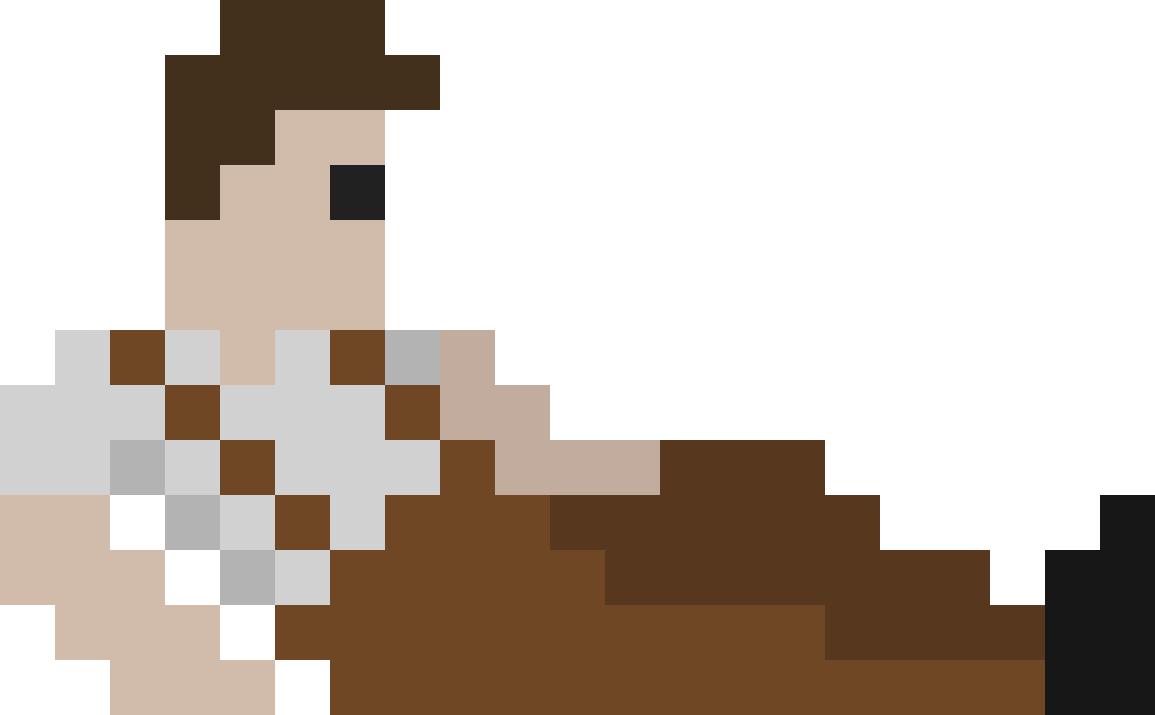
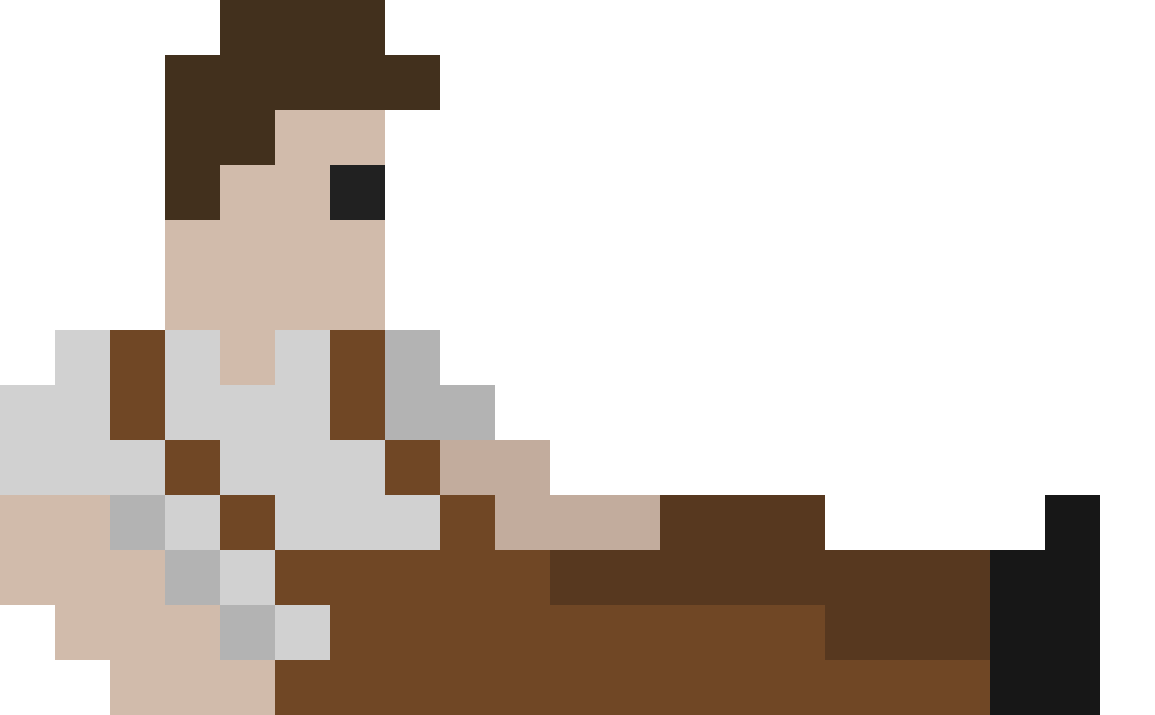
added sliding logic

Changed region(s): [[0.0935, 0.4615, 0.7792, 1.0], [0.9039, 0.6769, 1.0, 1.0], [0.8416, 0.7692, 0.9039, 1.0]]

diff --git a/javascript/games/game2.js b/javascript/games/game2.js
@@ -16,7 +16,7 @@ let floor_lisbon;
 
 /** character variables */
 let charX, charY, charW, charH, charYDefault, charYBackToDefault;
-let charSlidingH, charSlidingY;
+let charSlidingW, charSlidingH, charSlidingY;
 let char_running_R, char_running_M, char_running_L;
 let char_sliding_1, char_sliding_2, char_sliding_3;
 let char_jumping_1, char_jumping_2, char_jumping_3, char_jumping_4, char_jumping_5;
@@ -41,7 +41,8 @@ let typeOfObstacle = 1;
 let startJumpCounter, endJumpCounter, howLongJump, jump = false, isHovering = false, isHoveringStart, isHoveringShouldEndShort = 15, isHoveringShouldEndLong = 35, isJumpingDown = false;
 let slide = false, startSlide, endSlide, timeOfSlide = 50;
 let runSwitch = true, runWhenSwitch = 20, runWhenSwitchStart, runWhenSwitchEnd, runningImages = 0;
-let jumpSwitch = true, jumpWhenSwitch = 10, jumpWhenSwitchStart, jumpWhenSwitchEnd, jumpingImages = 0, jumpEachAnimation = false;
+let jumpWhenSwitch = 10, jumpWhenSwitchStart, jumpWhenSwitchEnd, jumpingImages = 0, jumpEachAnimation = false;
+let slideSwitch = true, slideWhenSwitch = 20, slideWhenSwitchStart, slideWhenSwitchEnd, slidingImages = 0, slideEachAnimation = false;
 
 export function game2_preload() {
     char_running_R = loadImage('../images/games/characters/char_running_R.png');
@@ -87,6 +88,7 @@ export function game2_setup() {
     charY = floorYPlacement - charH/2;
     charYDefault = charY;
 
+    charSlidingW = charW * 1.2;
     charSlidingH = charH * 0.55;
     charSlidingY = floorYPlacement - charSlidingH/2;
 
@@ -213,20 +215,51 @@ export function game2_draw() {
 
     /** when character is sliding */
     } else if (slide && !jump) {
-        endSlide = frameCount;
-
-        if (endSlide - startSlide >= timeOfSlide) {
+        if (slidingImages >= 3 && !slideEachAnimation) {
+            slidingImages = 0;
             slide = false;
         } else {
-            image(char_sliding_1, /* img */
-                charX, charSlidingY, /* x, y */
-                (char_sliding_1.width * charSlidingH)/char_sliding_1.height, charSlidingH) /* w, h */
+            if (!slideEachAnimation) {
+                slidingImages++;
+            }
 
-            char_position.w = (char_sliding_1.width * charSlidingH)/char_sliding_1.height;
-            char_position.h = charSlidingH;
-            char_position.x = charX + char_position.w/2;
-            char_position.y = charSlidingY + char_position.h/2;
+            if (slidingImages == 1) {
+                charIsSliding(10); //whenSwitch
+    
+                image(char_jumping_4, /* img */
+                    charX, charYDefault, /* x, y */
+                    (char_jumping_4.width * charH)/char_jumping_4.height, charH) /* w, h */
+            }
+    
+            else if (slidingImages == 2) {
+                charIsSliding(30); //whenSwitch
+    
+                image(char_sliding_2, /* img */
+                    charX, floorYPlacement-((char_sliding_2.height * charSlidingW)/char_sliding_2.width)/2, /* x, y */
+                    charSlidingW, (char_sliding_2.height * charSlidingW)/char_sliding_2.width) /* w, h */
+            }
+    
+            else {
+                charIsSliding(10); //whenSwitch
+    
+                image(char_sliding_3, /* img */
+                    charX, floorYPlacement-((char_sliding_3.height * charSlidingW)/char_sliding_3.width)/2, /* x, y */
+                    charSlidingW, (char_sliding_3.height * charSlidingW)/char_sliding_3.width) /* w, h */
+            }
         }
+
+
+        // endSlide = frameCount;
+
+        // if (endSlide - startSlide >= timeOfSlide) {
+        //     slide = false;
+        // } else {
+        // }
+
+        char_position.w = (char_sliding_1.width * charSlidingH)/char_sliding_1.height;
+        char_position.h = charSlidingH;
+        char_position.x = charX + char_position.w/2;
+        char_position.y = charSlidingY + char_position.h/2;
 
     /** when character is just running (default) */
     } else {
@@ -379,6 +412,21 @@ function charIsJumping(whenSwitch, yChanges, yHowMuch, backToDefault) {
             charY = charY + (charYBackToDefault);
         } else {
             charY = charY + (yHowMuch);
+        }
+    }
+}
+
+function charIsSliding(whenSwitch) {
+    if (!slideEachAnimation) {
+        slideEachAnimation = true;
+        
+        slideWhenSwitch = whenSwitch; /** determines how long, in frames, one of the pics of the slide animation is on for */
+        slideWhenSwitchStart = frameCount;
+    } else {
+        slideWhenSwitchEnd = frameCount;
+
+        if (slideWhenSwitchEnd - slideWhenSwitchStart >= slideWhenSwitch) {
+            slideEachAnimation = false;
         }
     }
 }
